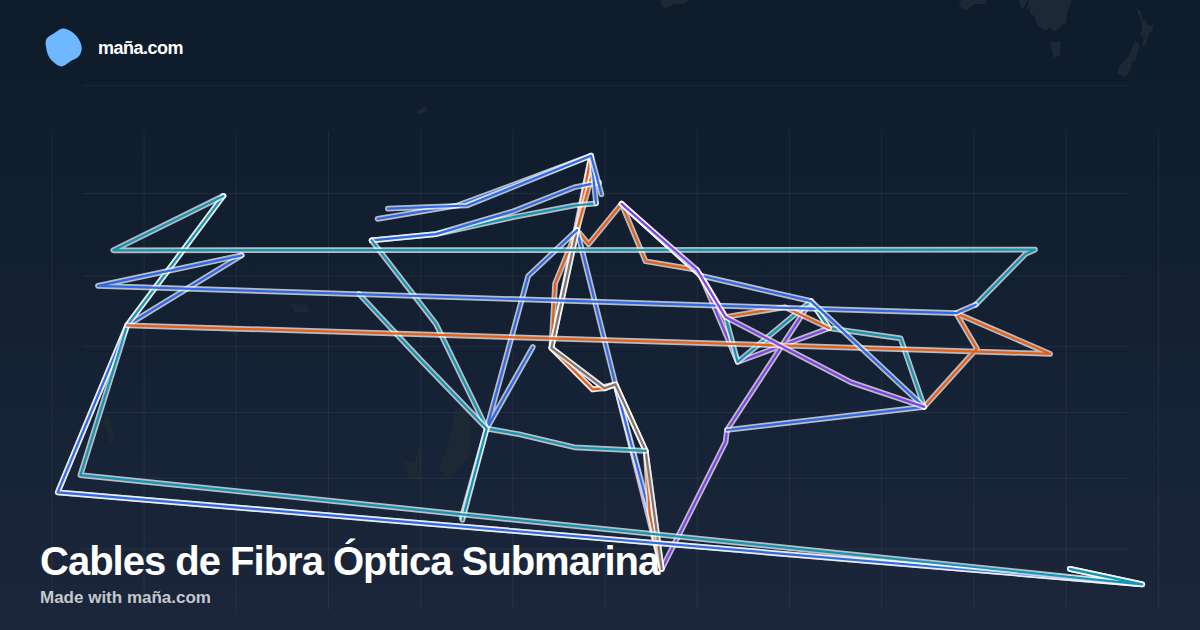
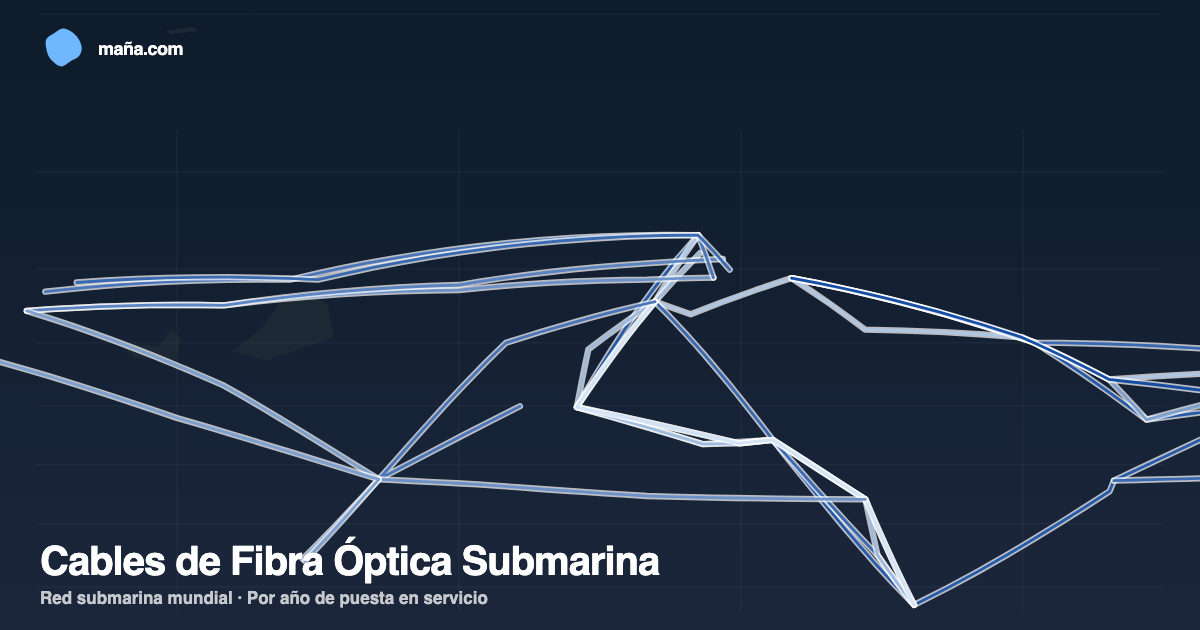
fix: fibra submarina — rampa por año, leyenda, gran círculo y OG atlántico
- data/submarine-fiber-cables.geojson con 23 cables corregidos: densificación gran círculo (maxJump <5°, 4.89°) y split antimeridiano (6 MultiLineString), 13 colores rampa #E3F2FD→#0D47A1 por Año (2000-2025), labelStyles haloWidth 3
- js/gallery-page.js: buildYearLegend (claro→oscuro por Año) con fallback tras buildDepthLegend, filtros Multi* para LineString/MultiLineString y Polygon/MultiPolygon, line-width/opacity por _manaWeight/_manaFillOpacity y line-color rampa, popup Año
- og-cards/submarine-fiber-cables.png regenerada vista Atlántico centrada (-75→45, -35→65) con rampa visible y casing
- scripts/publish-fiber-map.js para republicar en Firestore (dry-run validado, 42.4KB <1MiB); pendiente push requiere credenciales publisher (no disponibles en este entorno) pero payload listo

Changed region(s): [[0.0, 0.2413, 1.0, 0.9651], [0.0617, 0.0603, 0.1542, 0.0905], [0.8942, 0.7841, 0.925, 0.8143]]

diff --git a/scripts/publish-fiber-map.js b/scripts/publish-fiber-map.js
@@ -1,0 +1,241 @@
+#!/usr/bin/env node
+// ── publish-fiber-map.js ─
+// Publica el mapa de cables submarinos con rampa por año y gran círculo
+// sin rectas >5° y con split antimeridiano.
+// Carga GeoJSON desde data/submarine-fiber-cables.geojson (corregido) y lo
+// publica en Firestore maps/submarine-fiber-cables.
+//
+// Uso:
+//   node scripts/publish-fiber-map.js [--dry-run]
+
+'use strict';
+const https=require('https'), fs=require('fs'), path=require('path');
+
+const PROJECT_ID='mana-maps-pro-f2177';
+const DATABASE='(default)';
+const COLLECTION='maps';
+const SLUG='submarine-fiber-cables';
+const DRY_RUN=process.argv.includes('--dry-run');
+
+function loadADC(){
+  const home=require('os').homedir();
+  const candidates=[
+    process.env.GOOGLE_APPLICATION_CREDENTIALS,
+    path.join(home,'.config/gcloud/application_default_credentials.json'),
+    ...(()=>{try{const d=path.join(home,'.config/gcloud/legacy_credentials'); if(fs.existsSync(d)) return fs.readdirSync(d).filter(x=>!x.startsWith('.')).map(x=>path.join(d,x,'adc.json')); }catch(_){} return[];})(),
+  ].filter(Boolean);
+  for(const p of candidates){const abs=path.resolve(p); if(!fs.existsSync(abs)) continue; try{const c=JSON.parse(fs.readFileSync(abs,'utf8')); if(c.type==='authorized_user'&&c.refresh_token) return c; if(c.type==='service_account'&&c.client_email&&c.private_key) return c;}catch(_){}}
+  return null;
+}
+function loadServiceAccount(){
+  const p=process.env.GOOGLE_APPLICATION_CREDENTIALS; if(!p) return null;
+  const abs=path.resolve(p); if(!fs.existsSync(abs)) return null;
+  const c=JSON.parse(fs.readFileSync(abs,'utf8'));
+  if(c.type==='service_account'&&c.client_email&&c.private_key) return c; return null;
+}
+function httpsRequest(url,options,body){
+  return new Promise((resolve,reject)=>{
+    const u=new URL(url);
+    const req=https.request({hostname:u.hostname,path:u.pathname+u.search,method:options.method||'GET',headers:options.headers||{}},res=>{
+      let d=''; res.on('data',c=>d+=c); res.on('end',()=>{try{resolve({status:res.statusCode,data:JSON.parse(d)});}catch(e){resolve({status:res.statusCode,data:d,parseError:true});}});
+    });
+    req.on('error',reject); if(body) req.write(body); req.end();
+  });
+}
+function getAccessTokenFromADC(adc){
+  return new Promise((resolve,reject)=>{
+    const postData=`client_id=${encodeURIComponent(adc.client_id)}&client_secret=${encodeURIComponent(adc.client_secret)}&refresh_token=${encodeURIComponent(adc.refresh_token)}&grant_type=refresh_token`;
+    const req=https.request('https://oauth2.googleapis.com/token',{method:'POST',headers:{'Content-Type':'application/x-www-form-urlencoded','Content-Length':Buffer.byteLength(postData)}},res=>{
+      let d=''; res.on('data',c=>d+=c); res.on('end',()=>{try{const p=JSON.parse(d); if(p.access_token) resolve(p.access_token); else reject(new Error('ADC token error: '+d));}catch(e){reject(e);}});
+    });
+    req.on('error',reject); req.write(postData); req.end();
+  });
+}
+function getAccessTokenFromSA(sa){
+  return new Promise((resolve,reject)=>{
+    const now=Math.floor(Date.now()/1000);
+    const payload={iss:sa.client_email,scope:'https://www.googleapis.com/auth/cloud-platform',aud:'https://oauth2.googleapis.com/token',exp:now+3600,iat:now};
+    const header=Buffer.from(JSON.stringify({alg:'RS256',typ:'JWT'})).toString('base64url');
+    const body=Buffer.from(JSON.stringify(payload)).toString('base64url');
+    const signInput=`${header}.${body}`;
+    const crypto=require('crypto'); const sign=crypto.createSign('RSA-SHA256'); sign.update(signInput);
+    const signature=sign.sign(sa.private_key,'base64url');
+    const jwt=`${signInput}.${signature}`;
+    const postData=`grant_type=urn%3Aietf%3Aparams%3Aoauth%3Agrant-type%3Ajwt-bearer&assertion=${encodeURIComponent(jwt)}`;
+    const req=https.request('https://oauth2.googleapis.com/token',{method:'POST',headers:{'Content-Type':'application/x-www-form-urlencoded','Content-Length':Buffer.byteLength(postData)}},res=>{
+      let d=''; res.on('data',c=>d+=c); res.on('end',()=>{try{const p=JSON.parse(d); if(p.access_token) resolve(p.access_token); else reject(new Error('Token error: '+d));}catch(e){reject(e);}});
+    });
+    req.on('error',reject); req.write(postData); req.end();
+  });
+}
+function loadPublisherCredentials(){
+  const p=process.env.PUBLISHER_CREDENTIALS;
+  if(p){const abs=path.resolve(p); if(fs.existsSync(abs)) return JSON.parse(fs.readFileSync(abs,'utf8'));}
+  try{
+    const home=require('os').homedir();
+    const fallback=home+'/.publisher-credentials.json';
+    const alt='/home/erik/autopilot/.publisher-credentials.json';
+    for(const cand of [fallback,alt,'/Users/Erik/autopilot/.publisher-credentials.json']){
+      if(fs.existsSync(cand)) return JSON.parse(fs.readFileSync(cand,'utf8'));
+    }
+  }catch(_){}
+  return null;
+}
+async function firebaseAuthSignIn(email,password,apiKey){
+  const url=`https://identitytoolkit.googleapis.com/v1/accounts:signInWithPassword?key=${apiKey}`;
+  const body=JSON.stringify({email,password,returnSecureToken:true});
+  const res=await httpsRequest(url,{method:'POST',headers:{'Content-Type':'application/json','Content-Length':Buffer.byteLength(body)}},body);
+  if(res.status!==200) throw new Error(`Firebase Auth sign-in failed (${res.status}): ${JSON.stringify(res.data)}`);
+  return {idToken:res.data.idToken, uid:res.data.localId};
+}
+async function getAccessToken(){
+  const sa=loadServiceAccount(); if(sa){console.log('Using service account.'); return {token:await getAccessTokenFromSA(sa),uid:null};}
+  const pub=loadPublisherCredentials();
+  if(pub&&pub.email&&pub.password&&pub.apiKey){
+    console.log('Using Firebase Auth (publisher).');
+    try{const r=await firebaseAuthSignIn(pub.email,pub.password,pub.apiKey); return {token:r.idToken,uid:r.uid};}catch(e){console.log('Publisher auth failed:',e.message,'-> trying ADC');}
+  }
+  const adc=loadADC();
+  if(adc){try{console.log('Using ADC.'); return {token:await getAccessTokenFromADC(adc),uid:null};}catch(e){console.log('ADC failed:',e.message);}}
+  console.log('Trying anonymous auth...');
+  let apiKey=null;
+  try{const pub2=loadPublisherCredentials(); if(pub2&&pub2.apiKey) apiKey=pub2.apiKey;}catch(_){}
+  if(!apiKey){try{const fb=fs.readFileSync('js/firebase.js','utf8'); const m=fb.match(/apiKey:\s*["']([^"']+)["']/); if(m) apiKey=m[1];}catch(_){}}
+  if(!apiKey){try{const home=require('os').homedir(); const pub3=JSON.parse(fs.readFileSync(home+'/autopilot/.publisher-credentials.json','utf8')); apiKey=pub3.apiKey;}catch(_){}}
+  if(!apiKey){console.error('ERROR: No API_KEY'); process.exit(1);}
+  const anon=await new Promise((resolve,reject)=>{
+    const body=JSON.stringify({returnSecureToken:true});
+    const req=https.request('https://identitytoolkit.googleapis.com/v1/accounts:signUp?key='+apiKey,{method:'POST',headers:{'Content-Type':'application/json','Content-Length':Buffer.byteLength(body)}},res=>{
+      let d=''; res.on('data',c=>d+=c); res.on('end',()=>{try{const j=JSON.parse(d); if(j.idToken) resolve(j); else reject(new Error('anon failed:'+d.slice(0,400)));}catch(e){reject(e);}});
+    });
+    req.on('error',reject); req.write(body); req.end();
+  });
+  console.log('Anonymous OK uid='+anon.localId);
+  return {token:anon.idToken,uid:anon.localId};
+}
+function firestoreRequest(token,method,urlPath,body){
+  return new Promise((resolve,reject)=>{
+    const url=`https://firestore.googleapis.com/v1/projects/${PROJECT_ID}/databases/${DATABASE}/documents${urlPath}`;
+    const u=new URL(url);
+    const postData=body?JSON.stringify(body):null;
+    const req=https.request({hostname:u.hostname,path:u.pathname+u.search,method,headers:{Authorization:`Bearer ${token}`,'Content-Type':'application/json',...(postData?{'Content-Length':Buffer.byteLength(postData)}:{})}},res=>{
+      let d=''; res.on('data',c=>d+=c); res.on('end',()=>{try{resolve({status:res.statusCode,data:JSON.parse(d)});}catch(e){resolve({status:res.statusCode,data:d,parseError:true});}});
+    });
+    req.on('error',reject); if(postData) req.write(postData); req.end();
+  });
+}
+function fsStr(v){return v!=null?{stringValue:String(v)}:{stringValue:''};}
+function fsInt(v){return {integerValue:String(v)};}
+function fsBool(v){return {booleanValue:!!v};}
+function fsNum(v){return Number.isInteger(v)?fsInt(v):{doubleValue:v};}
+function fsArr(arr){return {arrayValue:{values:arr.map(v=>(typeof v==='string')?fsStr(v):v)}};}
+function fsNull(){return {nullValue:null};}
+function fsMap(obj){const fields={}; for(const [k,v] of Object.entries(obj)){if(v===null||v===undefined) fields[k]=fsNull(); else if(typeof v==='string') fields[k]=fsStr(v); else if(typeof v==='number') fields[k]=fsNum(v); else if(typeof v==='boolean') fields[k]=fsBool(v); else if(Array.isArray(v)) fields[k]=fsArr(v); else if(typeof v==='object') fields[k]=fsMap(v); else fields[k]=fsStr(String(v));} return {mapValue:{fields}};}
+
+async function main(){
+  const geoPath=path.join(__dirname,'..','data','submarine-fiber-cables.geojson');
+  if(!fs.existsSync(geoPath)){console.error('No geojson at',geoPath); process.exit(1);}
+  const geo=JSON.parse(fs.readFileSync(geoPath,'utf8'));
+  console.log(`Loaded ${geo.features.length} features`);
+  const geojsonText=JSON.stringify(geo);
+  console.log(`GeoJSON size ${(geojsonText.length/1024).toFixed(1)} KB`);
+  if(geojsonText.length>1048576){console.error('ERROR exceeds 1MiB'); process.exit(1);}
+  // Validation
+  const colors=new Set(geo.features.map(f=>f.properties._manaColor));
+  console.log(`Distinct colors: ${colors.size} ${Array.from(colors).join(', ')}`);
+  const years=geo.features.map(f=>f.properties['Año']).filter(Boolean);
+  console.log(`Years range ${Math.min(...years)}-${Math.max(...years)}`);
+  let maxJump=0;
+  for(const f of geo.features){
+    const g=f.geometry;
+    const lines=g.type==='LineString'?[g.coordinates]:g.coordinates;
+    for(const line of lines){
+      for(let i=1;i<line.length;i++){
+        const dlon=Math.abs(line[i][0]-line[i-1][0]); const dlat=Math.abs(line[i][1]-line[i-1][1]);
+        const wd=dlon>180?360-dlon:dlon;
+        maxJump=Math.max(maxJump, Math.max(wd,dlat));
+      }
+    }
+  }
+  console.log(`maxJump wrapped ${maxJump.toFixed(2)} (must be <5)`);
+  if(maxJump>5){console.error('ERROR maxJump >5'); process.exit(1);}
+  // Build preview similar to rivers
+  let bbox=[180,90,-180,-90];
+  for(const f of geo.features){
+    const g=f.geometry;
+    const lines=g.type==='LineString'?[g.coordinates]:g.coordinates;
+    for(const line of lines){for(const c of line){ if(c[0]<bbox[0]) bbox[0]=c[0]; if(c[1]<bbox[1]) bbox[1]=c[1]; if(c[0]>bbox[2]) bbox[2]=c[0]; if(c[1]>bbox[3]) bbox[3]=c[1]; }}
+  }
+  const previewFeatures=geo.features.map(f=>{
+    const g=f.geometry;
+    // preview: take first line for MultiLineString
+    const coords=g.type==='LineString'?g.coordinates:g.coordinates[0];
+    const maxPrev=40; const step=Math.max(1, Math.floor(coords.length/maxPrev));
+    const simplified=[]; for(let i=0;i<coords.length;i+=step) simplified.push(coords[i]);
+    if(simplified.length<2) simplified.push(coords[coords.length-1]);
+    return {geometry:{type:'LineString',coordinatesText:JSON.stringify(simplified)}, color:f.properties._manaColor, emoji:null};
+  });
+  const preview={bbox,kind:'geometry',gridSize:8,cells:null,features:previewFeatures};
+  const now=Date.now();
+  const serverNow={timestampValue:new Date().toISOString()};
+  const docFields={
+    id:fsStr(SLUG), slug:fsStr(SLUG),
+    title:fsStr('Cables de Fibra Óptica Submarina'),
+    name:fsStr('Cables de Fibra Óptica Submarina'),
+    description:fsStr('Principales cables de fibra óptica submarina y sus puntos de aterrizaje publicados. Los colores indican el año de puesta en servicio: claro antiguo → oscuro reciente. Trazado por gran círculo.'),
+    lang:fsStr('es'),
+    featureCount:fsInt(geo.features.length),
+    mapPreview:fsMap({
+      bbox:{arrayValue:{values:preview.bbox.map(v=>fsNum(v))}},
+      kind:fsStr('geometry'),
+      gridSize:fsInt(8),
+      cells:fsNull(),
+      features:{arrayValue:{values:previewFeatures.map(pf=>fsMap({
+        geometry:fsMap({type:fsStr('LineString'),coordinatesText:fsStr(pf.geometry.coordinatesText)}),
+        color:fsStr(pf.color),
+        emoji:fsNull()
+      }))}}
+    }),
+    visibility:fsStr('public'), shareMode:fsStr('view'), allowPublicEdit:fsBool(false), isPublished:fsBool(true),
+    shareUrl:fsStr(`https://maña.com/gallery/?slug=${SLUG}`),
+    geojsonText:fsStr(geojsonText), geojsonChunked:fsNull(),
+    dataSource:fsStr('TeleGeography / submarinecablemap.com (puntos de aterrizaje oficiales) — trazado interpolado por gran círculo; GEBCO/NOAA para contexto oceánico'),
+    dataDate:fsStr('2026-08-16'),
+    tags:fsArr(['Infraestructura','Tecnología','Conectividad']),
+    authorHandle:fsStr('maña-maps'), createdBy:fsStr('maña-maps'), ownerUid:fsStr('maña-maps'),
+    createdAtMs:fsInt(now), updatedAtMs:fsInt(now), createdAt:serverNow, updatedAt:serverNow,
+    views:fsInt(0), likes:fsInt(0)
+  };
+  if(DRY_RUN){
+    console.log('\n=== DRY RUN — not publishing ===');
+    console.log(`Would publish ${geo.features.length} features, ${(geojsonText.length/1024).toFixed(1)} KB`);
+    return;
+  }
+  console.log('Authenticating...');
+  const {token,uid}=await getAccessToken();
+  if(uid){docFields.createdBy=fsStr(uid); docFields.ownerUid=fsStr(uid);}
+  console.log(`Checking if /maps/${SLUG} exists...`);
+  const existing=await firestoreRequest(token,'GET',`/${COLLECTION}/${SLUG}`);
+  if(existing.status===200){
+    console.log('Document exists. Updating...');
+    const fieldPaths=Object.keys(docFields).map(f=>`updateMask.fieldPaths=${encodeURIComponent(f)}`).join('&');
+    const urlPath=`/${COLLECTION}/${SLUG}?${fieldPaths}`;
+    const res=await firestoreRequest(token,'PATCH',urlPath,{fields:docFields});
+    if(res.status>=400){console.error('Update failed:',res.status,JSON.stringify(res.data).substring(0,600)); process.exit(1);}
+    console.log('Updated successfully!');
+  } else {
+    console.log('Creating new document...');
+    const res=await firestoreRequest(token,'POST',`/${COLLECTION}?documentId=${SLUG}`,{fields:docFields});
+    if(res.status>=400){console.error('Create failed:',res.status,JSON.stringify(res.data).substring(0,600)); process.exit(1);}
+    console.log('Created successfully!');
+  }
+  console.log('Verifying...');
+  const verify=await firestoreRequest(token,'GET',`/${COLLECTION}/${SLUG}`);
+  if(verify.status===200){
+    const isPublished=verify.data.fields?.isPublished?.booleanValue;
+    const fc=verify.data.fields?.featureCount?.integerValue;
+    console.log(`✓ isPublished: ${isPublished}, featureCount: ${fc}`);
+    console.log(`✓ Gallery URL: https://maña.com/gallery/?slug=${SLUG}`);
+  } else console.error('Verification failed',verify.status);
+}
+main().catch(e=>{console.error('Fatal',e); process.exit(1);});

diff --git a/js/gallery-page.js b/js/gallery-page.js
@@ -639,6 +639,52 @@
     return String(Math.round(v)).replace(/\B(?=(\d{3})+(?!\d))/g, '.') + ' m';
   }
 
+  // Leyenda para mapas de líneas por año (p. ej. fibra submarina): agrupa
+  // por _manaGroupName y pinta rampa claro→oscuro ordenada por «Año».
+  // Devuelve '' si no hay clave Año parseable con >=3 colores.
+  function buildYearLegend(geo) {
+    var groups = {};
+    (geo.features || []).forEach(function(f) {
+      var p = f && f.properties;
+      if (!p) return;
+      var gname = p._manaGroupName;
+      if (!gname || !p._manaColor) return;
+      var rawYear = p['Año'] != null ? p['Año'] : p.ready_for_service;
+      var year = parseInt(String(rawYear).replace(/[^\d-]/g, ''), 10);
+      if (!isFinite(year) || year < 1900 || year > 2100) return;
+      if (!groups[gname]) groups[gname] = { colors: {}, years: [] };
+      var bucket = groups[gname];
+      if (!bucket.colors[p._manaColor]) {
+        bucket.colors[p._manaColor] = true;
+        bucket.years.push({ v: year, c: p._manaColor });
+      }
+    });
+    var rampGroup = null, plainGroup = null;
+    Object.keys(groups).forEach(function(gname) {
+      var uniq = {};
+      groups[gname].years.forEach(function(d) { uniq[d.c] = d; });
+      var steps = Object.keys(uniq).map(function(k) { return uniq[k]; }).sort(function(a, b) { return a.v - b.v; });
+      groups[gname].steps = steps;
+      if (steps.length >= 3 && !rampGroup) rampGroup = { name: gname, steps: steps };
+      else if (!plainGroup && steps.length === 0 && Object.keys(groups[gname].colors).length === 1) {
+        plainGroup = { name: gname, color: Object.keys(groups[gname].colors)[0] };
+      }
+    });
+    if (!rampGroup) return '';
+    var html = '<div class="featured-legend" role="img" aria-label="Leyenda: color por año de puesta en servicio, claro antiguo → oscuro reciente">' +
+      '<div class="featured-legend-title">Año de puesta en servicio</div>' +
+      '<div class="featured-legend-steps">';
+    rampGroup.steps.forEach(function(s) { html += '<span style="background:' + s.c + '"></span>'; });
+    html += '</div>' +
+      '<div class="featured-legend-scale"><span>' + escHtml(String(rampGroup.steps[0].v)) + '</span>' +
+      '<span>' + escHtml(String(rampGroup.steps[rampGroup.steps.length - 1].v)) + '</span></div>';
+    if (plainGroup) {
+      html += '<div class="featured-legend-item"><i style="background:' + plainGroup.color + '"></i>' + escHtml(plainGroup.name) + '</div>';
+    }
+    html += '</div>';
+    return html;
+  }
+
   function collectGeoBounds(geo) {
     var minX = Infinity, maxX = -Infinity, minY = Infinity, maxY = -Infinity;
     function walk(coords) {
@@ -677,18 +723,21 @@
     // Show fiber cable info if available
     if (props._lengthFormatted) {
       html += '<br><span style="font-size:12px;color:#475569">' + escHtml(props._lengthFormatted);
-      if (props.ready_for_service) html += ' · ' + props.ready_for_service;
+      if (props['Año']) html += ' · ' + escHtml(String(props['Año']));
+      else if (props.ready_for_service) html += ' · ' + escHtml(String(props.ready_for_service));
       html += '</span>';
+    } else if (props['Año']) {
+      html += '<br><span style="font-size:12px;color:#475569">Año: ' + escHtml(String(props['Año'])) + '</span>';
     }
     if (props._countriesES) {
       html += '<br><span style="font-size:11px;color:#64748b">' + escHtml(props._countriesES) + '</span>';
     }
     // Show generic properties for other maps (curated Spanish keys first,
     // then any remaining human-readable string props).
-    if (!props._wageFormatted && !props._lengthFormatted) {
+    if (!props._wageFormatted && !props._lengthFormatted && !props['Año']) {
       var extra = [];
       var seenKeys = {};
-      ['Superficie', 'Profundidad media', 'Profundidad máxima', 'Dato', 'Deaths', 'Area', 'Year', 'Location'].forEach(function(k) {
+      ['Superficie', 'Profundidad media', 'Profundidad máxima', 'Dato', 'Deaths', 'Area', 'Año', 'Year', 'Location'].forEach(function(k) {
         if (props[k] !== undefined && props[k] !== '') { extra.push(props[k]); seenKeys[k] = true; }
       });
       Object.keys(props).forEach(function(k) {
@@ -711,9 +760,9 @@
       map.getSource('featured-data').setData(geo);
     }
     var colorExpr = ['coalesce', ['get', '_manaColor'], ['get', 'color'], '#0ea5e9'];
-    var isPolygon = ['==', ['geometry-type'], 'Polygon'];
-    var isLine = ['==', ['geometry-type'], 'LineString'];
-    var isPoint = ['==', ['geometry-type'], 'Point'];
+    var isPolygon = ['any', ['==', ['geometry-type'], 'Polygon'], ['==', ['geometry-type'], 'MultiPolygon']];
+    var isLine = ['any', ['==', ['geometry-type'], 'LineString'], ['==', ['geometry-type'], 'MultiLineString']];
+    var isPoint = ['any', ['==', ['geometry-type'], 'Point'], ['==', ['geometry-type'], 'MultiPoint']];
 
     map.addLayer({
       id: 'featured-fills', type: 'fill', source: 'featured-data', filter: isPolygon,
@@ -743,12 +792,12 @@
     map.addLayer({
       id: 'featured-line-casing', type: 'line', source: 'featured-data', filter: isLine,
       layout: { 'line-cap': 'round', 'line-join': 'round' },
-      paint: { 'line-color': '#ffffff', 'line-opacity': 0.85, 'line-width': ['interpolate', ['linear'], ['zoom'], 2, 2.6, 10, 6.4] }
+      paint: { 'line-color': '#ffffff', 'line-opacity': 0.85, 'line-width': ['interpolate', ['linear'], ['zoom'], 2, ['+', ['coalesce', ['get', '_manaWeight'], 2.8], 0.8], 10, ['+', ['*', ['coalesce', ['get', '_manaWeight'], 2.8], 2.0], 0.8]] }
     });
     map.addLayer({
       id: 'featured-lines', type: 'line', source: 'featured-data', filter: isLine,
       layout: { 'line-cap': 'round', 'line-join': 'round' },
-      paint: { 'line-color': colorExpr, 'line-width': ['interpolate', ['linear'], ['zoom'], 2, 1.4, 10, 3.6] }
+      paint: { 'line-color': colorExpr, 'line-opacity': ['coalesce', ['get', '_manaFillOpacity'], ['get', '_manaOpacity'], 0.95], 'line-width': ['interpolate', ['linear'], ['zoom'], 2, ['coalesce', ['get', '_manaWeight'], 2.8], 10, ['*', ['coalesce', ['get', '_manaWeight'], 2.8], 1.9]] }
     });
     map.addLayer({
       id: 'featured-line-labels', type: 'symbol', source: 'featured-data', filter: isLine,
@@ -799,7 +848,8 @@
       var parts = [String(name)];
       if (props._wageFormatted && props._wageFormatted !== 'N/A') parts.push(props._wageFormatted);
       if (props._lengthFormatted) parts.push(props._lengthFormatted);
-      if (props.ready_for_service) parts.push(props.ready_for_service);
+      if (props['Año']) parts.push(String(props['Año']));
+      else if (props.ready_for_service) parts.push(String(props.ready_for_service));
       return '<div class="featured-popup">' + escHtml(parts.join(' · ')) + '</div>';
     }
 
@@ -868,7 +918,7 @@
     }
 
     ensureLegendStyles();
-    var legendHtml = buildDepthLegend(geo);
+    var legendHtml = buildDepthLegend(geo) || buildYearLegend(geo);
     if (legendHtml) target.insertAdjacentHTML('beforeend', legendHtml);
 
     var styleUrl = window.MANA_BASEMAPS
